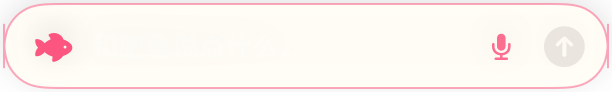
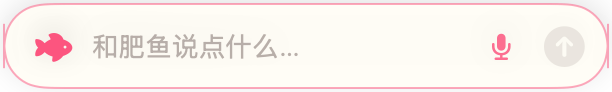
perf: 环境动画降至 3.3fps 并去除实时模糊；docs: 更新最终截图与安装脚本

Changed region(s): [[0.1242, 0.3696, 0.4967, 0.6522]]

diff --git a/Sources/PetView.swift b/Sources/PetView.swift
@@ -8,20 +8,23 @@ struct PetView: View {
     @State private var dragging = false
 
     private var interval: Double {
-        if state.systemAsleep { return 2.0 }
-        if state.mood == .sleepy { return 0.5 }
-        if state.idle { return 0.28 }
-        if state.listening { return 0.08 }
-        if state.speaking { return 0.06 }
-        return 0.066
+        if state.idle || state.mood == .sleepy { return 0.75 }       // ~1.3 fps
+        if state.listening || state.speaking { return 0.12 }         // ~8 fps（口型/波形）
+        return 0.3                                                   // ~3.3 fps 环境动画
     }
 
     var body: some View {
-        TimelineView(.periodic(from: .now, by: interval)) { context in
-            PetCanvas(
-                state: state,
-                t: context.date.timeIntervalSinceReferenceDate
-            )
+        Group {
+            if state.systemAsleep {
+                PetCanvas(state: state, t: 0)
+            } else {
+                TimelineView(.periodic(from: .now, by: interval)) { context in
+                    PetCanvas(
+                        state: state,
+                        t: context.date.timeIntervalSinceReferenceDate
+                    )
+                }
+            }
         }
         .frame(width: 240, height: 240)
         .contentShape(Rectangle())
@@ -105,9 +108,13 @@ private struct PetCanvas: View {
         ZStack {
             // 地面阴影
             Ellipse()
-                .fill(Color.black.opacity(state.systemAsleep ? 0.07 : 0.14))
-                .frame(width: 116, height: 14)
-                .blur(radius: 5)
+                .fill(
+                    RadialGradient(
+                        colors: [Color.black.opacity(state.systemAsleep ? 0.05 : 0.13), Color.black.opacity(0)],
+                        center: .center, startRadius: 2, endRadius: 58
+                    )
+                )
+                .frame(width: 120, height: 18)
                 .position(x: 132, y: 212)
 
             if state.listening || state.thinking {
@@ -147,7 +154,6 @@ private struct PetCanvas: View {
                 Ellipse()
                     .fill(persona.bellyColor.opacity(0.92))
                     .frame(width: 92, height: 56)
-                    .blur(radius: 0.6)
                     .position(x: 140, y: 165)
 
                 // 胸鳍
@@ -341,14 +347,22 @@ private struct FishFace: View {
         ZStack {
             // 腮红
             Ellipse()
-                .fill(persona.accentColor.opacity(blushOpacity))
-                .frame(width: 18, height: 9)
-                .blur(radius: 1.6)
+                .fill(
+                    RadialGradient(
+                        colors: [persona.accentColor.opacity(blushOpacity), persona.accentColor.opacity(0)],
+                        center: .center, startRadius: 1, endRadius: 9
+                    )
+                )
+                .frame(width: 20, height: 11)
                 .position(x: 78, y: 68)
             Ellipse()
-                .fill(persona.accentColor.opacity(blushOpacity))
-                .frame(width: 15, height: 8)
-                .blur(radius: 1.4)
+                .fill(
+                    RadialGradient(
+                        colors: [persona.accentColor.opacity(blushOpacity), persona.accentColor.opacity(0)],
+                        center: .center, startRadius: 1, endRadius: 8
+                    )
+                )
+                .frame(width: 17, height: 10)
                 .position(x: 124, y: 65)
 
             // 眼睛

diff --git a/README.md b/README.md
@@ -89,11 +89,12 @@ open "build/大肥鱼.app"
 ## 性能设计
 
 - 纯原生 Swift + SwiftUI，无 Electron / WebView。
-- 动画帧率自适应：活跃 ≤15fps，闲置 3.5fps，系统睡眠 0.5fps。
+- 动画帧率自适应：交互 8fps、环境 3.3fps、闲置 1.3fps，系统睡眠时停止重绘。
 - 90~600 秒无输入自动进入睡眠表情并降帧；鼠标/键盘一有动静立刻醒。
 - 监听 `willSleep / screensDidSleep / sessionDidResignActive`，睡眠时暂停调度器与语音。
 - 全局只有 1 个 30 秒定时器（tolerance 12s）+ 1 个 5 秒空闲检测；无轮询、无忙等。
 - 对话走 SSE 流式，工具调用按需执行；空闲时零网络请求。
+- 实测（M1 MacBook Pro，未悬停）：约 **0.4% CPU / 22MB 内存**；悬停出现输入框时约 1.5%。
 
 ## 结构
 
